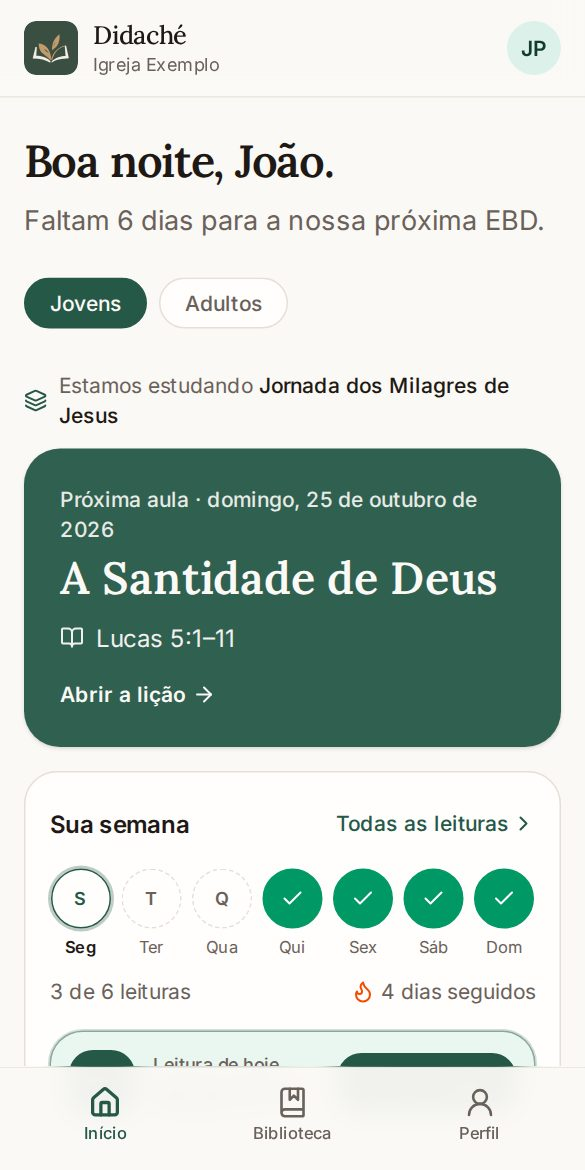
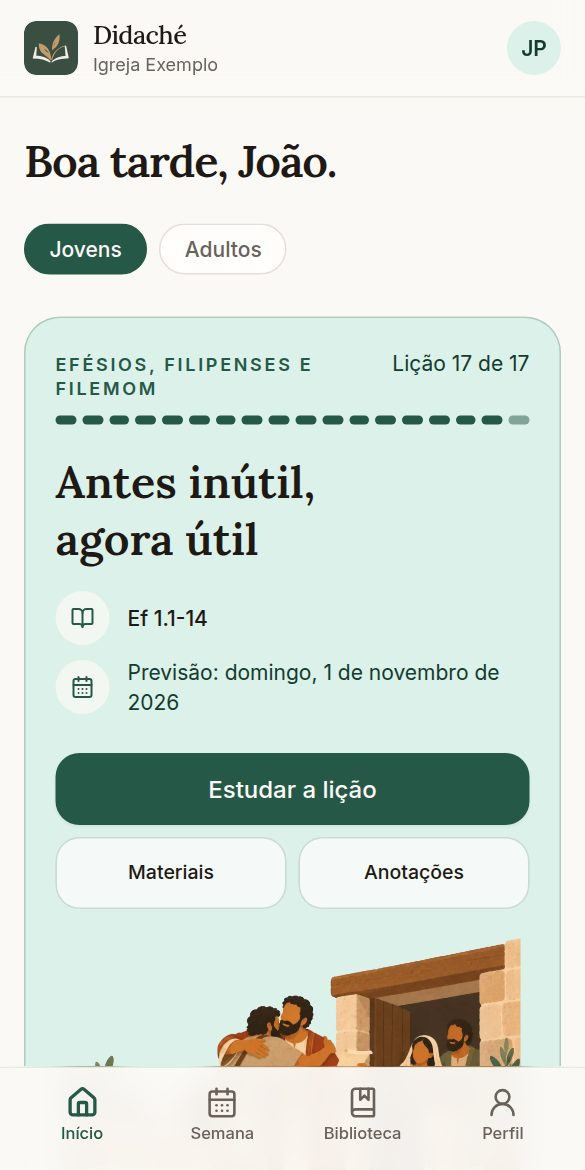
feat: site com capturas novas, seção "E tem mais" e capa nos estudos de exemplo
As capturas ainda mostravam o Modo Domingo e o Início antigo. Agora mostram
o Início com a capa da lição, a página da lição e a gestão da classe.
A seção nova lista Minha semana, áudio, podcast, tirar dúvida, selos e lembretes.

diff --git a/resources/js/pages/site/home.tsx b/resources/js/pages/site/home.tsx
@@ -1,9 +1,15 @@
 import { Head, Link, usePage } from '@inertiajs/react';
 import {
     ArrowRight,
+    Award,
+    BellRing,
     BookOpen,
+    CalendarDays,
     ClipboardCheck,
+    Headphones,
     Heart,
+    MessageCircleQuestion,
+    Podcast,
     Users,
 } from 'lucide-react';
 import type { ReactNode } from 'react';
@@ -24,19 +30,18 @@ type Props = {
 const screenshots = [
     {
         src: '/site/aluno-semana.jpg',
-        alt: 'Tela inicial do aluno com a leitura do dia e o progresso da semana',
-        caption:
-            'A semana do aluno: a leitura de hoje e o progresso até a aula.',
+        alt: 'Tela inicial do aluno com a lição atual, a série e a capa da lição',
+        caption: 'O Início do aluno: a lição da vez, com a capa e a série.',
     },
     {
         src: '/site/estudo.jpg',
-        alt: 'Página de uma lição com o texto bíblico e o estudo',
+        alt: 'Página de uma lição com a capa, o texto base e o estudo',
         caption: 'O estudo da lição, com o texto bíblico a um toque.',
     },
     {
         src: '/site/chamada.jpg',
-        alt: 'Tela de chamada da classe no celular do professor',
-        caption: 'A chamada da classe feita no celular, na hora da aula.',
+        alt: 'Gestão da classe no celular do professor, com a lição atual e o botão de chamada',
+        caption: 'O professor acompanha a classe e faz a chamada no celular.',
     },
 ] as const;
 
@@ -55,6 +60,39 @@ const benefits = [
         icon: ClipboardCheck,
         title: 'Chamada no celular',
         text: 'Presença marcada em segundos durante a aula, com o histórico de cada aluno guardado.',
+    },
+] as const;
+
+const extras = [
+    {
+        icon: CalendarDays,
+        title: 'Minha semana',
+        text: 'A leitura de cada dia até a aula, para adiantar ou pôr em dia.',
+    },
+    {
+        icon: Headphones,
+        title: 'Estudo em áudio',
+        text: 'A lição narrada para ouvir no ônibus, no carro ou na cozinha.',
+    },
+    {
+        icon: Podcast,
+        title: 'Podcast da igreja',
+        text: 'Os áudios das lições num podcast próprio, que dá para pôr no Spotify.',
+    },
+    {
+        icon: MessageCircleQuestion,
+        title: 'Tirar dúvida',
+        text: 'O aluno pergunta sobre o texto na própria lição. O professor vê as dúvidas da turma, sem nomes.',
+    },
+    {
+        icon: Award,
+        title: 'Sequência e selos',
+        text: 'Dias seguidos de estudo e selos que incentivam sem expor ninguém.',
+    },
+    {
+        icon: BellRing,
+        title: 'Lembretes no celular',
+        text: 'A leitura do dia e a lição nova chegam como notificação.',
     },
 ] as const;
 
@@ -157,17 +195,39 @@ export default function SiteHome({ examples, pixKey }: Props) {
                 </ul>
             </Section>
 
+            {/* Recursos */}
+            <Section
+                title="E tem mais"
+                description="O que a classe ganhou nos últimos meses."
+                className="bg-card"
+            >
+                <ul className="grid gap-x-8 gap-y-10 sm:grid-cols-2 lg:grid-cols-3">
+                    {extras.map(({ icon: Icon, title, text }) => (
+                        <li key={title} className="flex gap-4">
+                            <span className="inline-flex size-10 shrink-0 items-center justify-center rounded-xl bg-accent text-accent-foreground">
+                                <Icon className="size-5" aria-hidden />
+                            </span>
+                            <div>
+                                <h3 className="font-semibold">{title}</h3>
+                                <p className="mt-1 text-sm text-muted-foreground">
+                                    {text}
+                                </p>
+                            </div>
+                        </li>
+                    ))}
+                </ul>
+            </Section>
+
             {/* Como funciona */}
             <Section
                 title="Como funciona"
                 description="Do cadastro à primeira aula em poucos passos."
-                className="bg-card"
             >
                 <ol className="grid gap-6 sm:grid-cols-2 lg:grid-cols-4">
                     {steps.map((step, index) => (
                         <li
                             key={step.title}
-                            className="rounded-2xl border border-border bg-background p-5"
+                            className="rounded-2xl border border-border bg-card p-5"
                         >
                             <span className="inline-flex size-8 items-center justify-center rounded-full bg-primary font-serif text-sm font-semibold text-primary-foreground">
                                 {index + 1}
@@ -186,38 +246,50 @@ export default function SiteHome({ examples, pixKey }: Props) {
                 <Section
                     title="Veja um estudo"
                     description="Abra um estudo de exemplo, do jeito que o aluno vê."
+                    className="bg-card"
                 >
                     <ul className="grid gap-4 md:grid-cols-2">
                         {examples.map((lesson) => (
                             <li key={lesson.id}>
                                 <Link
                                     href={show(lesson.slug)}
-                                    className="group flex h-full flex-col rounded-2xl border border-border bg-card p-5 transition-colors hover:border-primary/50 focus-visible:ring-2 focus-visible:ring-ring focus-visible:outline-none"
+                                    className="group flex h-full gap-5 rounded-2xl border border-border bg-background p-5 transition-colors hover:border-primary/50 focus-visible:ring-2 focus-visible:ring-ring focus-visible:outline-none"
                                 >
-                                    {lesson.series && (
-                                        <span className="text-xs font-medium text-primary">
-                                            {lesson.series.title}
-                                        </span>
-                                    )}
-                                    <span className="mt-1 font-serif text-xl font-semibold">
-                                        {lesson.title}
-                                    </span>
-                                    {lesson.bible_reference && (
-                                        <span className="mt-1 text-sm text-muted-foreground">
-                                            {lesson.bible_reference}
-                                        </span>
-                                    )}
-                                    {lesson.summary && (
-                                        <span className="mt-3 line-clamp-3 text-sm text-muted-foreground">
-                                            {lesson.summary}
-                                        </span>
-                                    )}
-                                    <span className="mt-4 inline-flex items-center gap-1 text-sm font-medium text-primary">
-                                        Abrir o estudo
-                                        <ArrowRight
-                                            className="size-4 transition-transform group-hover:translate-x-0.5"
-                                            aria-hidden
+                                    {lesson.cover_url && (
+                                        <img
+                                            src={lesson.cover_url}
+                                            alt=""
+                                            loading="lazy"
+                                            decoding="async"
+                                            className="size-24 shrink-0 rounded-xl object-cover sm:size-28"
                                         />
+                                    )}
+                                    <span className="flex min-w-0 flex-col">
+                                        {lesson.series && (
+                                            <span className="text-xs font-medium text-primary">
+                                                {lesson.series.title}
+                                            </span>
+                                        )}
+                                        <span className="mt-1 font-serif text-xl font-semibold">
+                                            {lesson.title}
+                                        </span>
+                                        {lesson.bible_reference && (
+                                            <span className="mt-1 text-sm text-muted-foreground">
+                                                {lesson.bible_reference}
+                                            </span>
+                                        )}
+                                        {lesson.summary && (
+                                            <span className="mt-3 line-clamp-3 text-sm text-muted-foreground">
+                                                {lesson.summary}
+                                            </span>
+                                        )}
+                                        <span className="mt-4 inline-flex items-center gap-1 text-sm font-medium text-primary">
+                                            Abrir o estudo
+                                            <ArrowRight
+                                                className="size-4 transition-transform group-hover:translate-x-0.5"
+                                                aria-hidden
+                                            />
+                                        </span>
                                     </span>
                                 </Link>
                             </li>
@@ -235,7 +307,7 @@ export default function SiteHome({ examples, pixKey }: Props) {
             )}
 
             {/* Apoie */}
-            <Section className="bg-card">
+            <Section>
                 <div className="grid gap-8 md:grid-cols-[1fr_1.1fr] md:items-center">
                     <div>
                         <span className="inline-flex size-11 items-center justify-center rounded-xl bg-accent text-accent-foreground">
@@ -251,7 +323,7 @@ export default function SiteHome({ examples, pixKey }: Props) {
                             pelo Pix.
                         </p>
                     </div>
-                    <div className="rounded-2xl border border-border bg-background p-5">
+                    <div className="rounded-2xl border border-border bg-card p-5">
                         <CopyField
                             label="Chave Pix (aleatória)"
                             value={pixKey}
@@ -268,7 +340,7 @@ export default function SiteHome({ examples, pixKey }: Props) {
             </Section>
 
             {/* Fechamento */}
-            <Section>
+            <Section className="bg-card">
                 <div className="text-center">
                     <h2 className="font-serif text-3xl font-semibold tracking-tight text-balance">
                         Leve a lição da semana para o celular da sua classe
